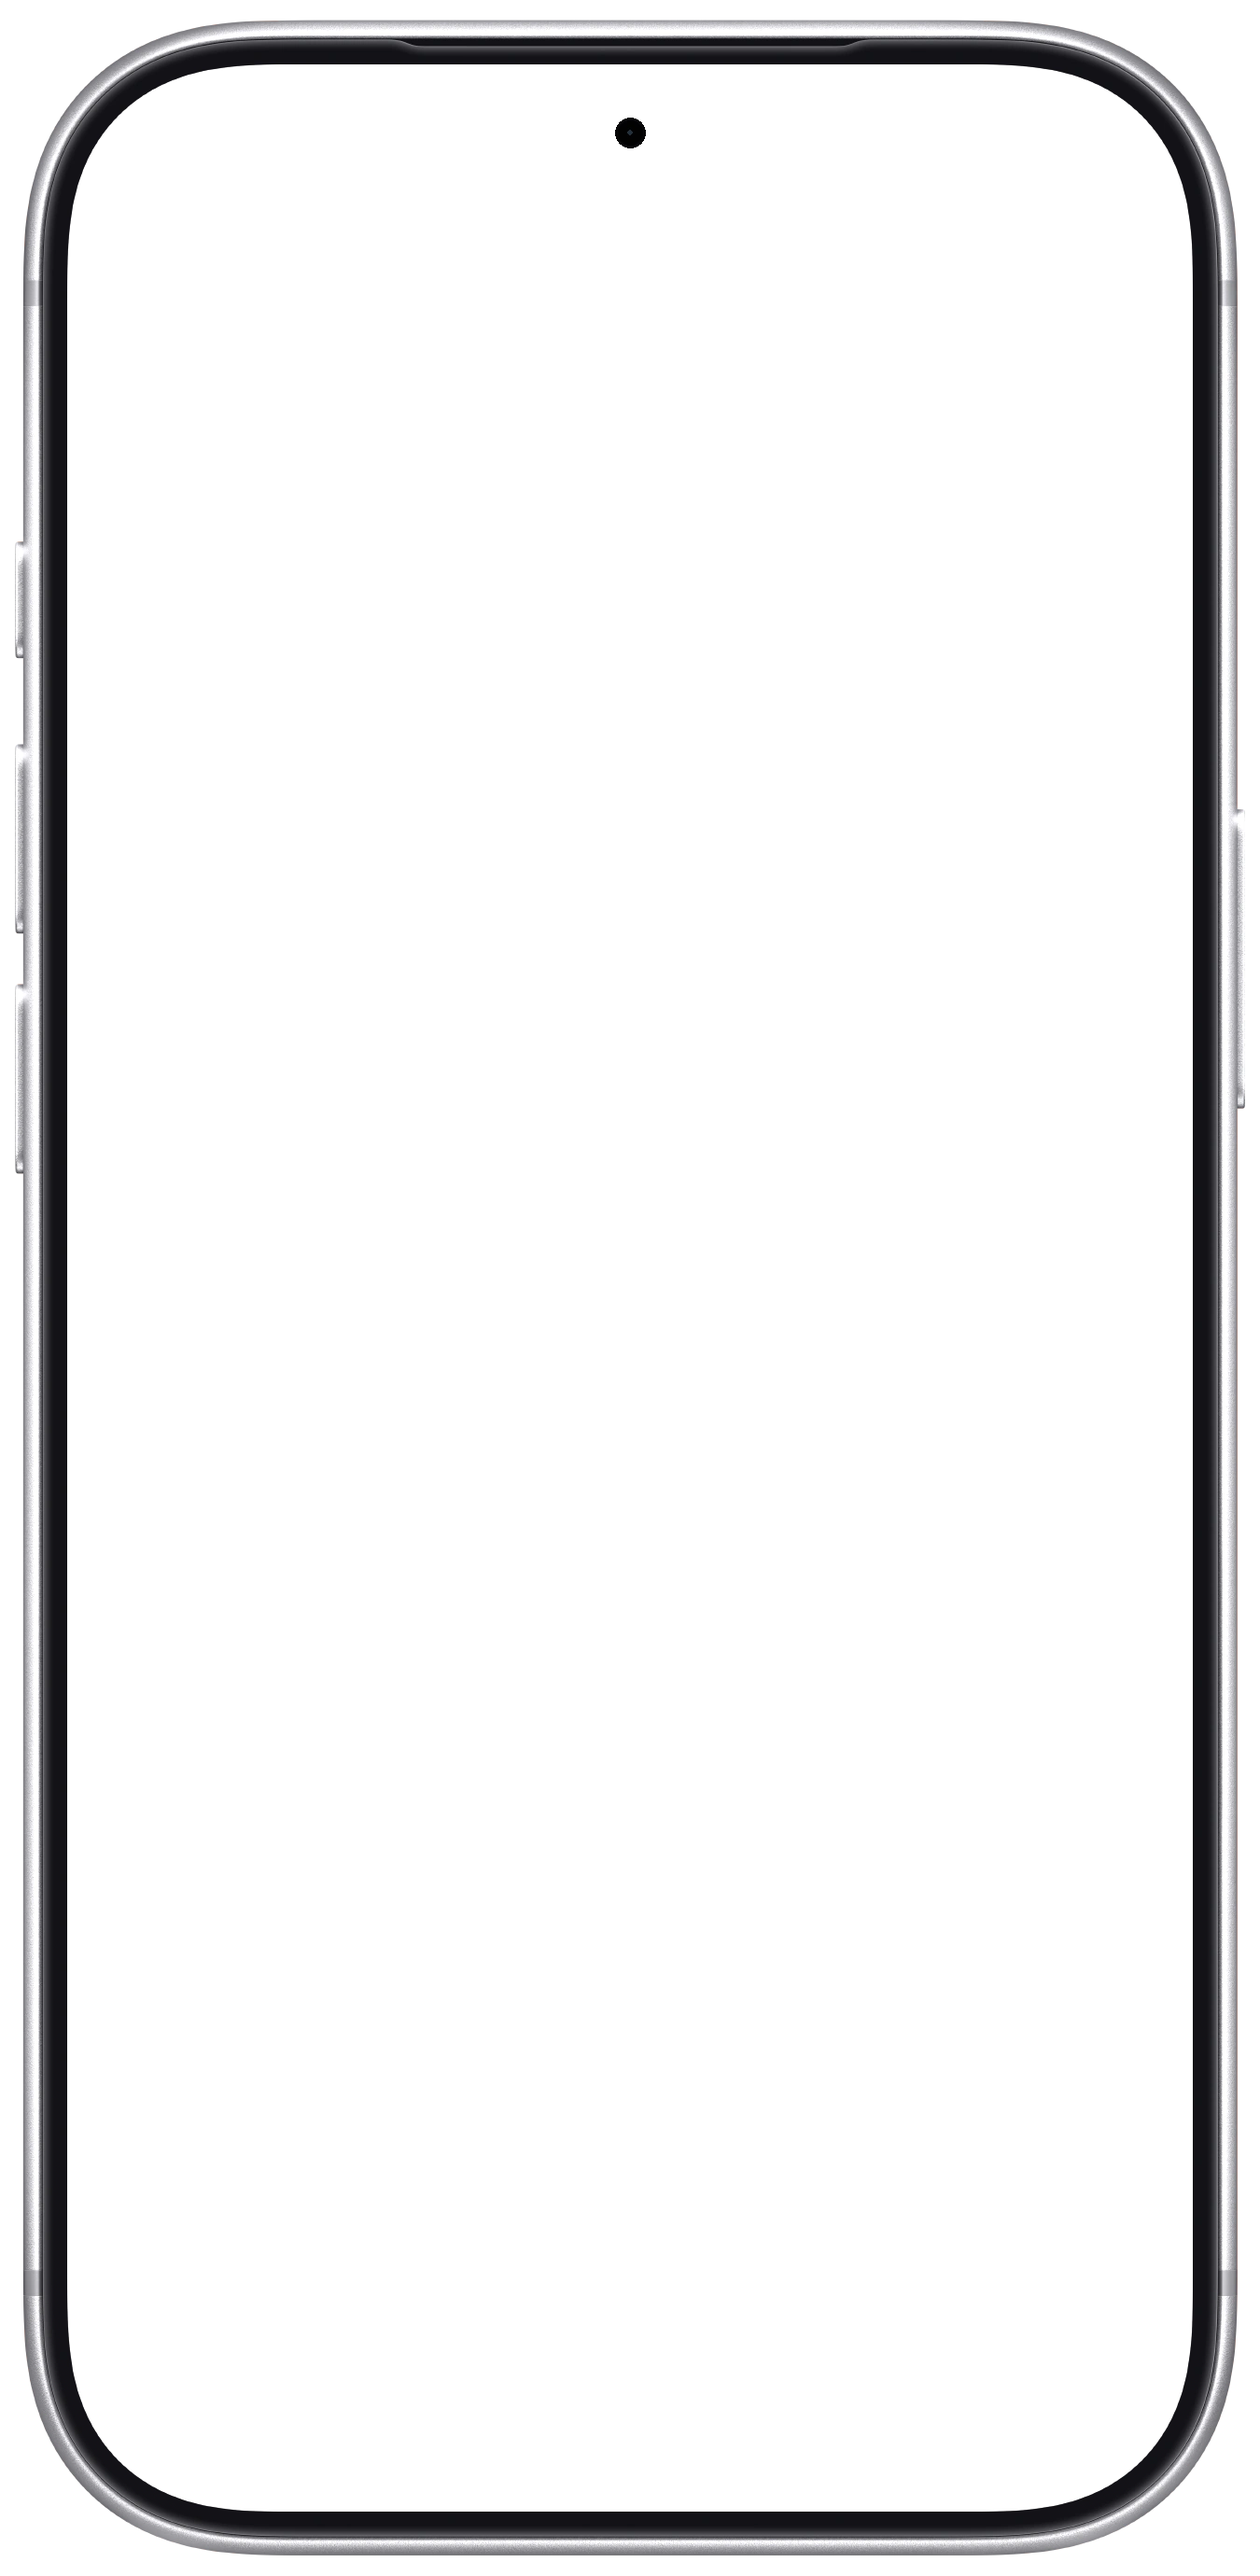
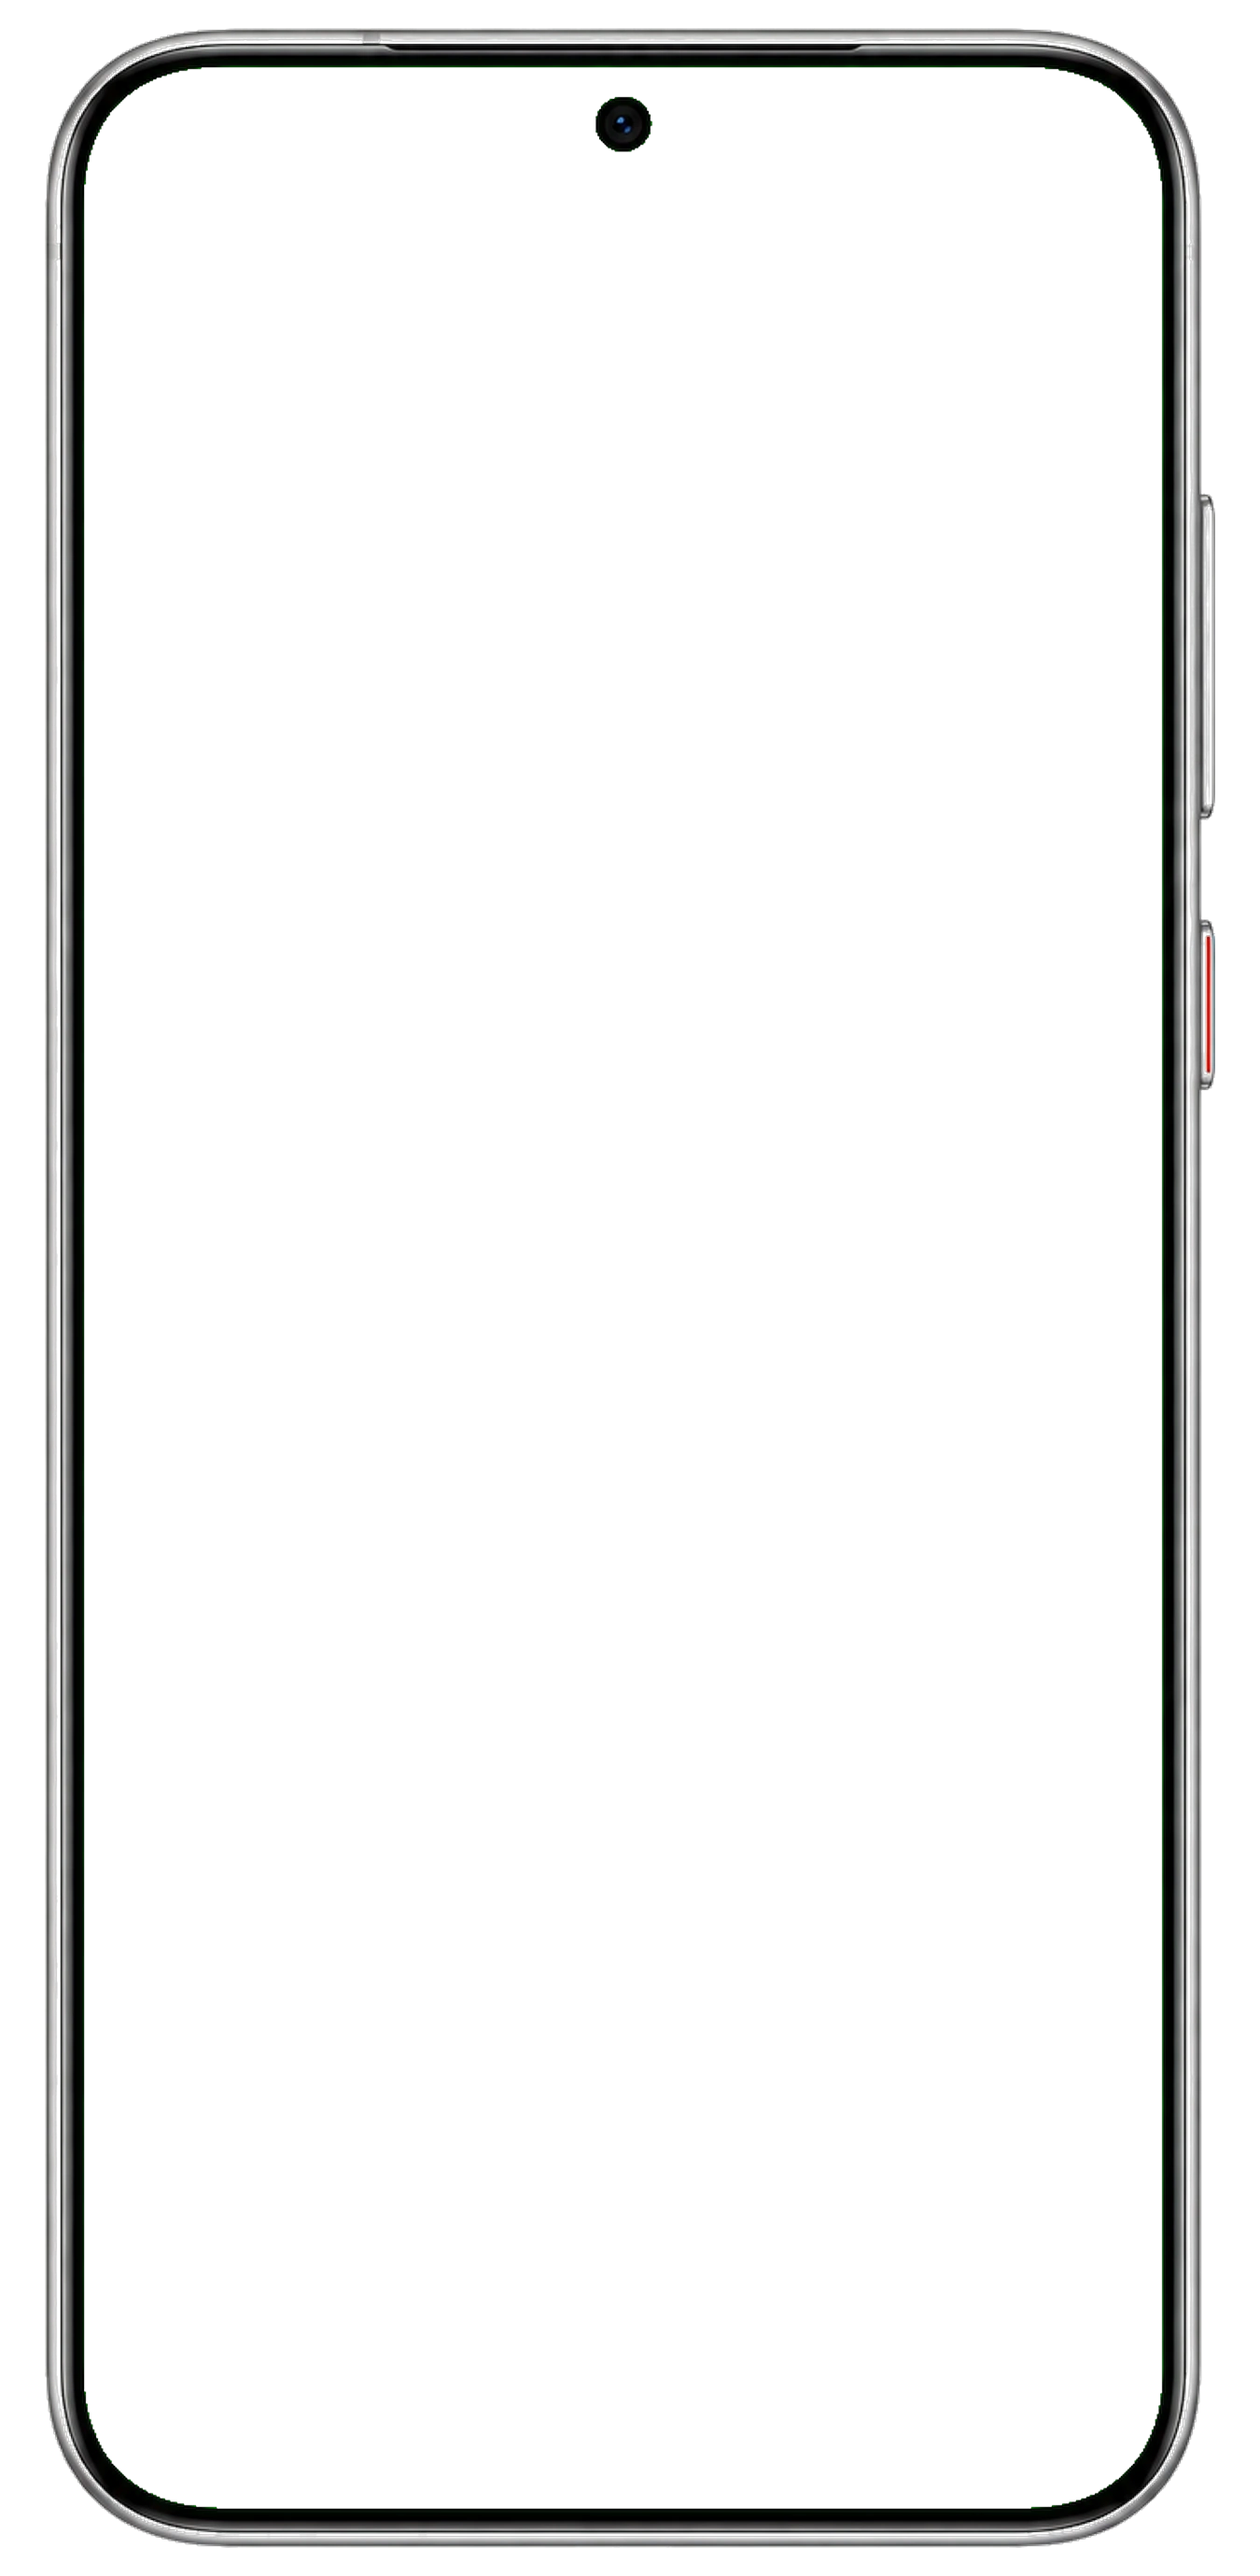
feat(bezels): replace with authentic Samsung S24 and Huawei Pura70 hardware mockups with exact viewport alignment

Changed region(s): [[0.0, 0.0, 0.9956, 0.9971]]

diff --git a/src/main.ts b/src/main.ts
@@ -1186,8 +1186,14 @@ function parseAndApplyUrlTarget() {
 }
 
 function syncBezel() {
+  const deviceEl = document.querySelector<HTMLElement>('.device');
   const bezelSource = document.querySelector<HTMLSourceElement>('.device picture source');
   const bezelImg = document.querySelector<HTMLImageElement>('.official-bezel');
+  
+  if (deviceEl) {
+    deviceEl.setAttribute('data-platform', activePlatform);
+  }
+  
   if (bezelSource && bezelImg) {
     if (activePlatform === 'android') {
       bezelSource.srcset = '/media/bezel/samsung-s24-portrait.webp';

diff --git a/src/style.css b/src/style.css
@@ -1565,6 +1565,24 @@
   contain: paint layout;
 }
 
+/* 真实三星 Galaxy S24 专属屏幕视口与小直屏圆角 */
+.device[data-platform="android"] .device-screen {
+  left: 4.96%;
+  top: 5.69%;
+  width: 89.41%;
+  height: 91.63%;
+  border-radius: 4.8%/2.3%;
+}
+
+/* 真实华为 Pura 70 专属屏幕视口与微弧直屏圆角 */
+.device[data-platform="harmony"] .device-screen {
+  left: 6.74%;
+  top: 5.91%;
+  width: 85.41%;
+  height: 91.45%;
+  border-radius: 6.2%/3.0%;
+}
+
 .device-screen > .phone-ui {
   position: absolute;
   inset: 0;
